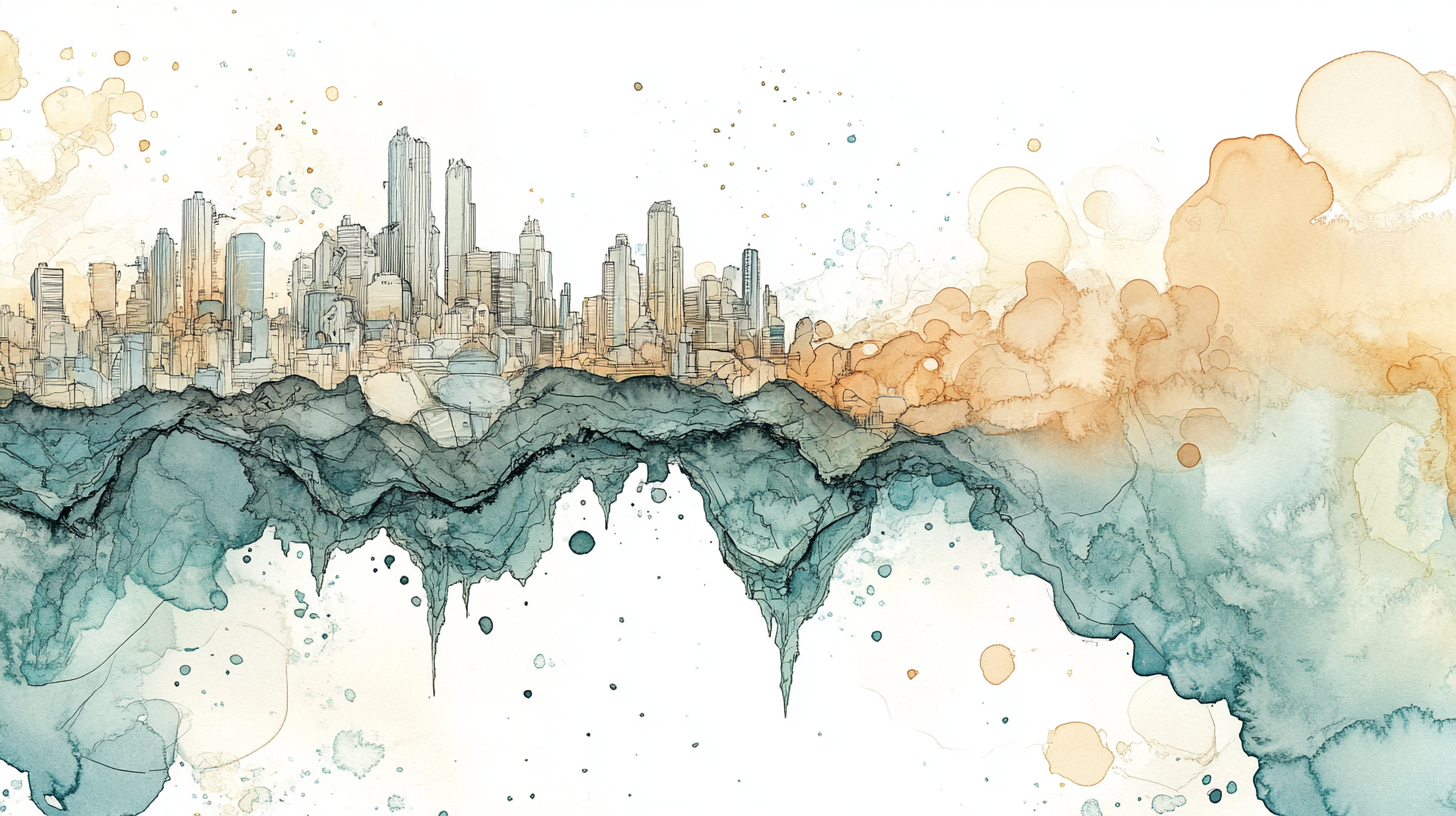
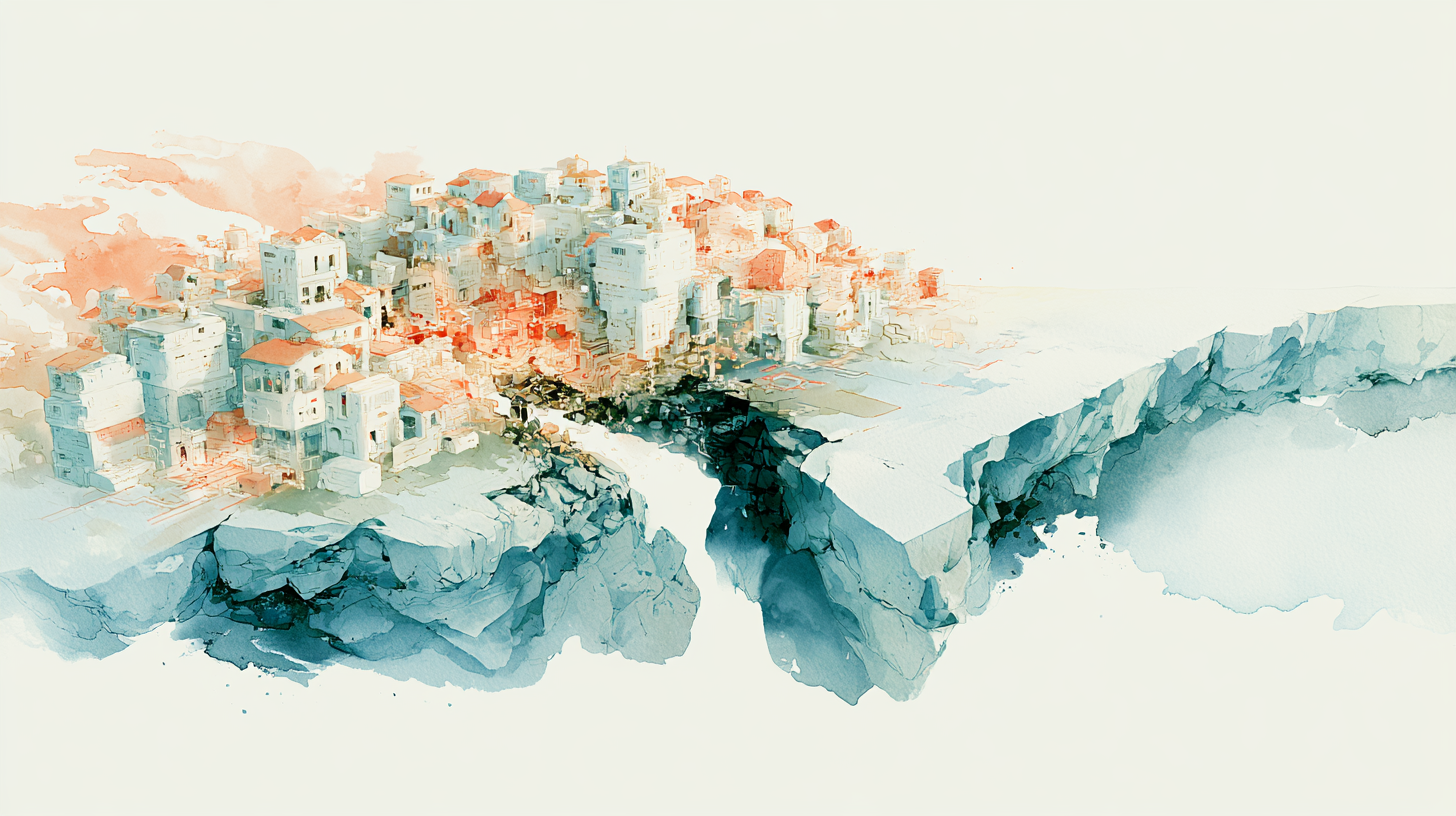
Agentic engineer post: refresh milestone facts to in-window items; drop levels image

diff --git a/_posts/2026-03-04-rise-of-the-agentic-engineer.md b/_posts/2026-03-04-rise-of-the-agentic-engineer.md
@@ -18,21 +18,21 @@ draft: true
 }
 </style>
 
-Shipping software has fundamentally changed. 'Agentic engineering' is taking over, and software engineer's responsibilities have shifted significantly.
+Shipping software has fundamentally changed. Agentic engineering is taking over, and software engineer's responsibilities have shifted significantly.
 
-In this blog I'll summarise what Agentic Engineering is, explain why it's significant, and why it's beneficial for everyone.
+In this blog I'll summarise what Agentic Engineering is, why it's significant, and why it's beneficial for everyone.
 
 ## What changed
 
 ![What changed](/assets/agentic-engineer/what-changed.png)
 
-In case you didn't hear, LLMs are kind of becoming a big deal. The world is realising software is a perfect candidate for the generative output text LLMs produce: there's a ton of training material from open source repositories, and the output is verifiable - if the app works then you can verify it's doing a good job.
+In case you didn't hear, LLMs are kind of a big deal. The world is realising software is a perfect candidate for the generative output text LLMs produce. There's a ton of training material from open source repositories, and the output is verifiable - if the app works then you can somewhat verify it's doing a good job.
 
-Recent big milestones:
+Recent milestones (in the last 6 months!):
 
 - Terminal-first agentic interfaces like [Claude Code](https://serpsculpt.com/claude-code-usage-statistics/) and [Codex](https://codex.danielvaughan.com/2026/04/09/codex-3-million-users-growth-usage-limits/) went mainstream
-- Cursor [hit $1B ARR](https://www.saastr.com/cursor-hit-1b-arr-in-17-months-the-fastest-b2b-to-scale-ever-and-its-not-even-close) and shipped their own foundation model, [Composer](https://letsdatascience.com/blog/cursor-hit-2-billion-in-revenue-then-it-told-developers-to-stop-coding)
-- [Opus 4.5](https://every.to/vibe-check/vibe-check-opus-4-5-is-the-coding-model-we-ve-been-waiting-for) and [Codex 5.3](https://medium.com/@unicodeveloper/claude-code-vs-codex-vs-opencode-which-ai-coding-agent-is-actually-the-best-in-2026-baa9f6fd5374) got good enough to handle vague input, and more ambitious tasks
+- Cursor [hit $2B ARR](https://letsdatascience.com/blog/cursor-hit-2-billion-in-revenue-then-it-told-developers-to-stop-coding) and shipped their own foundation model, [Composer 2](https://siliconangle.com/2026/03/19/vibe-coding-startup-cursor-launches-programming-optimized-composer-2-model/)
+- [Opus 4.6](https://techcrunch.com/2026/02/05/anthropic-releases-opus-4-6-with-new-agent-teams/) and [Codex 5.3](https://medium.com/@unicodeveloper/claude-code-vs-codex-vs-opencode-which-ai-coding-agent-is-actually-the-best-in-2026-baa9f6fd5374) got good enough to handle vague input, and more ambitious tasks
 - Standards like [MCP](https://daily.dev/blog/mcp-model-context-protocol-why-developers-should-care) and [Skills](https://offthegridxp.substack.com/p/the-genius-of-anthropics-claude-agent-skills-2025) solidified, to provide abstractions that give more leverage when building
 
 ## The buzz online
@@ -57,8 +57,6 @@ It's a skill like any other, and you have to learn to use it well. Expect a dip 
 
 And this is just the beginning. Today you manage one agent, but the tooling is improving fast, and soon you'll be orchestrating whole engineering teams of them. It has already fundamentally changed the way I work.
 
-![Levels](/assets/agentic-engineer/levels.png)
-
 ## Generalists win this round
 
 ![Generalists win this round](/assets/agentic-engineer/generalists.png)
@@ -79,19 +77,19 @@ Slop is a discipline problem, not a tooling problem. Best practices still matter
 
 ![Cautious optimism](/assets/agentic-engineer/cautious-optimism.png)
 
-Don't believe all the hype. Attention-grabbing headlines usually have ulterior motives, like baiting engagement or selling you an online course.
+Don't believe all the hype. Attention-grabbing headlines usually have monetary motives, like baiting engagement or selling you an online course.
 
-From my own experience, and from what clients tell me, it's at least 40% faster on real projects. More on greenfield work, less on tangled legacy code. It's a genuine productivity gain — not a revolution, and not a fad.
+From my experience and what clients tell me, it's feels~ 40% faster. Greenfield work is great - controlling it less yields better results as it picks sensible defaults. Legacy work is also amazing, migrations are way easier and summaries of complex architecture make build faster. It's a genuinely seems like a productivity gain across the board.
 
 ## I'm rebranding
 
 ![I'm rebranding](/assets/agentic-engineer/rebranding.png)
 
-I'm updating my title to Full-Stack Agentic Engineer.
+I'm updating my identity to Full-Stack Agentic Engineer.
 
 I still ship full-stack applications every week. I just don't type the code anymore.
 
-It's accurate — it describes what I actually do day to day. And tech has always rewarded keeping up and thinking forward. The last time I saw a shift this big was smartphones; before that, the internet itself.
+This best describes what I do day to day. And tech has always rewarded keeping up and thinking forward. The last time I saw a shift this big was smartphones; before that, the internet itself.
 
 <img class="business-card" src="/assets/agentic-engineer/business-card.png" alt="Business card">
 
@@ -99,7 +97,7 @@ It's accurate — it describes what I actually do day to day. And tech has alway
 
 ![Conclusion](/assets/agentic-engineer/conclusion.png)
 
-In a world increasingly consumed by software, agentic engineering is a shift I'd argue is as big as the iPhone. Much like object-oriented programming, it's a higher level of abstraction that frees you to think about bigger problems.
+In a world increasingly consumed by software, agentic engineering is a shift I'd argue is as big as a shift in the industrial industry. Much like object-oriented programming, it's a higher level of abstraction that frees you to think about bigger problems.
 
 It matters because software isn't the bottleneck anymore. Taste, judgement, and domain knowledge are what's holding you back now.
 